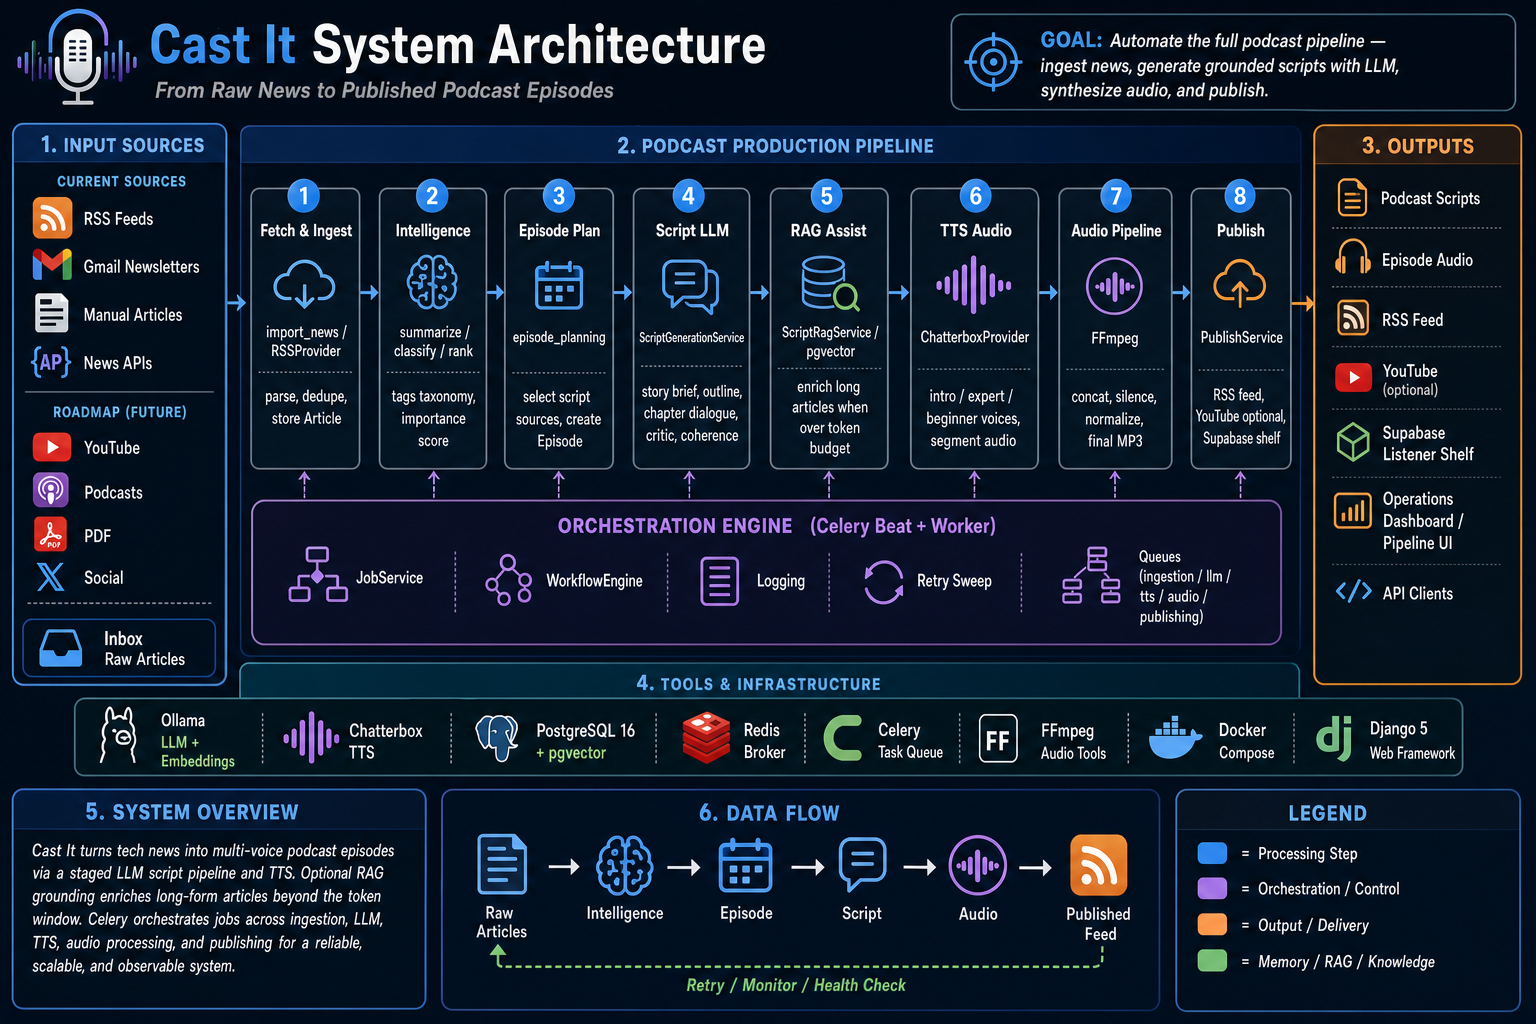
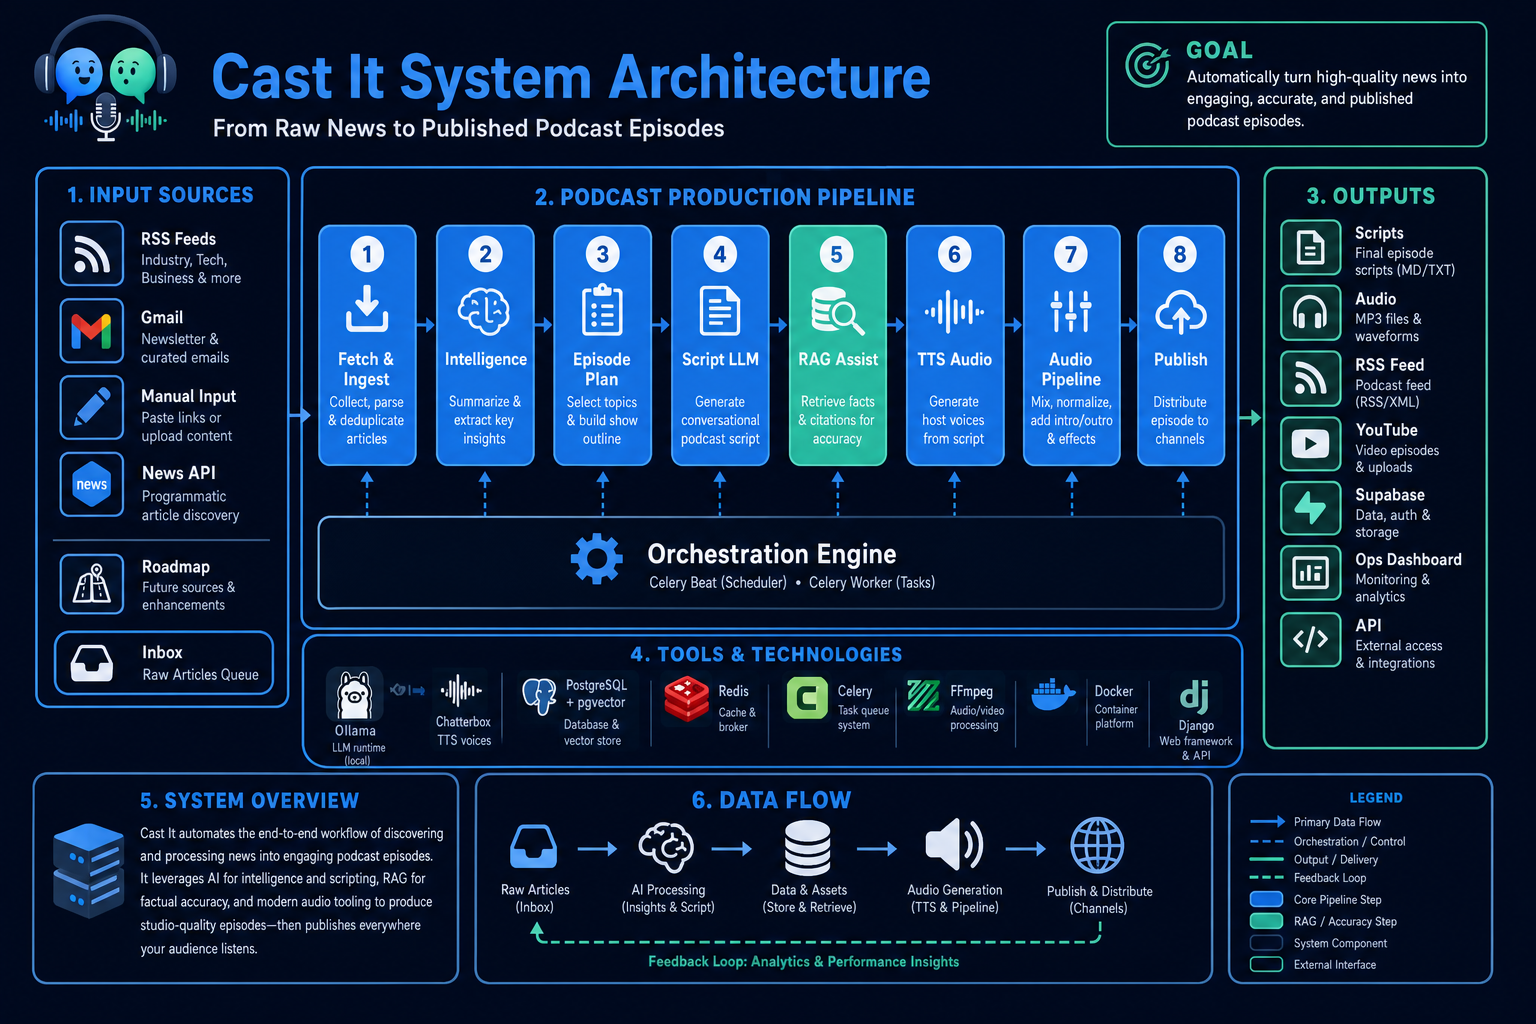
update architecture

diff --git a/README.md b/README.md
@@ -9,7 +9,9 @@ Cast It is a Django-based AI podcast production platform for news ingestion, art
 
 ## Architecture and Features
 
-![Cast It System Architecture](docs/architecture/diagrams/09-cast-it-system-architecture.svg)
+![Cast It System Architecture](docs/architecture/diagrams/09-cast-it-system-architecture.png)
+
+Editable vector source: [`09-cast-it-system-architecture.svg`](docs/architecture/diagrams/09-cast-it-system-architecture.svg)
 
 ![system context](docs/architecture/diagrams/01-system-context.png)
 